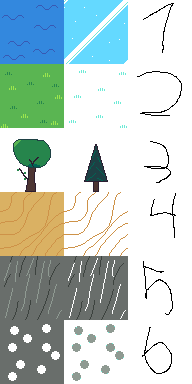
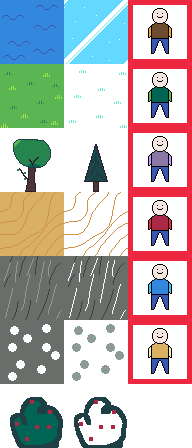
Working on an optimised tile finder

diff --git a/src/levelGeneration.cpp b/src/levelGeneration.cpp
@@ -44,9 +44,18 @@ void generateLevel(std::unordered_map<int64_t, Chunk>& world,SDL_Renderer* rende
 	terNoise.SetFractalLacunarity(2.0f);
 	terNoise.SetFractalGain(0.5f);
 
+	static FastNoiseLite vegNoiseClumps;
+	vegNoiseClumps.SetNoiseType(FastNoiseLite::NoiseType_OpenSimplex2);
+	vegNoiseClumps.SetFrequency(0.008f);
+	vegNoiseClumps.SetFractalType(FastNoiseLite::FractalType_FBm);
+	vegNoiseClumps.SetFractalOctaves(3);
+	float vegVarClumpsX = dist(rng);
+	float vegVarClumpsY = dist(rng);
+
+
 	static FastNoiseLite vegNoise;
 	vegNoise.SetNoiseType(FastNoiseLite::NoiseType_OpenSimplex2);
-	vegNoise.SetFrequency(0.008f);
+	vegNoise.SetFrequency(0.5f);
 	vegNoise.SetFractalType(FastNoiseLite::FractalType_FBm);
 	vegNoise.SetFractalOctaves(3);
 	float vegVarX = dist(rng);
@@ -98,21 +107,36 @@ void generateLevel(std::unordered_map<int64_t, Chunk>& world,SDL_Renderer* rende
 			else                     {type.bg.column= Water;}
 			type.bg.state=true;
 
+			//Apply the base
+			Chunk& chunk = world[key];
+			chunk.ogC[coords.idx] = type;
+
 
 			// Vegitation generation
+			float vegValueLowFreq = vegNoiseClumps.GetNoise((float)(tx+vegVarClumpsX),
+					(float)(ty+vegVarClumpsY));
+			vegValueLowFreq = (vegValueLowFreq + 1.0f) / 2.0f;
+
 			float vegValue = vegNoise.GetNoise((float)(tx+vegVarX), (float)(ty+vegVarY));
 			vegValue = (vegValue + 1.0f) / 2.0f;
-			if (vegValue >= 0.70f && type.bg.column== Grass && terValue<=0.5){
-				type.fg.column= Tree;
-				type.fg.row= type.bg.row;
+
+			//Bushes
+			if (vegValue <= 0.15f && type.bg.column== Grass && terValue<=0.5){
+				type.fg.column = bush;
+				type.fg.row = type.bg.row;
+				type.fg.state = true;
+			}
+
+			//Trees
+			if (vegValueLowFreq >= 0.70f && type.bg.column== Grass && terValue<=0.5){
+				type.fg.column = Tree;
+				type.fg.row = type.bg.row;
 				type.fg.state=true;
 			}
 
-
-			// Actually applying the change
-			Chunk& chunk  = world[key];
+			//Apply the rest
 			chunk.c[coords.idx] = type;
-			chunk.ogC[coords.idx] = type;
+			chunk.cellCount[type]++;
 			dirtyKeys.insert(key);
 
 			heightmap[ty * levelSizeX + tx] = terValue; // world position
@@ -227,10 +251,20 @@ void generateLevel(std::unordered_map<int64_t, Chunk>& world,SDL_Renderer* rende
 							int64_t key = getKey(cCoords.cx, cCoords.cy);
 							if (world.find(key) == world.end()) continue;
 							Chunk& chunk = world[key];
-							dirtyKeys.insert(key);
+
+							// decrement old
+							Cell old = chunk.c[cCoords.idx];
+							if (--chunk.cellCount[old] == 0) chunk.cellCount.erase(old);
+
 							chunk.c[cCoords.idx].bg.column = Water;
 							chunk.c[cCoords.idx].fg.state = false;
+							chunk.ogC[cCoords.idx].bg.column = Water;
+							chunk.ogC[cCoords.idx].fg.state = false;
 
+							// increment new
+							chunk.cellCount[chunk.c[cCoords.idx]]++;
+
+							dirtyKeys.insert(key);
 							carvedAdditions.push_back(wp);
 						}
 					}
@@ -260,8 +294,13 @@ void generateLevel(std::unordered_map<int64_t, Chunk>& world,SDL_Renderer* rende
 
 						int value = chunk.c[c.idx].bg.column;
 						if (value != Water && value != Mountain && value != MountainTop){
+							Cell old = chunk.c[c.idx];
+							if (--chunk.cellCount[old] == 0) chunk.cellCount.erase(old);
+
 							chunk.c[c.idx].bg.column = Sand;
 							chunk.c[c.idx].fg.state = false;
+
+							chunk.cellCount[chunk.c[c.idx]]++;
 						}
 					}
 				}

diff --git a/src/creature.cpp b/src/creature.cpp
@@ -3,37 +3,33 @@
 #include <unordered_map>
 #include <iostream>
 
-
-void Creature::update(std::unordered_map<int64_t, Chunk>& world,
-		std::vector<Creature*> creatures){
+void Creature::update(std::unordered_map<int64_t, Chunk>& world,std::vector<Creature*> creatures){
 	if (!alive){changeCell(world, pos, {-1, -1}, true); return;} //restore
 	if (path.size()>0){
 		Pos nextPos = path.front();
-		Cell p = checkCell(world, nextPos);
-		changeCell(world, pos, {-1, -1}, true);  // restore
-		pos = nextPos;
-		changeCell(world, pos, cell, false); // place
+		updatePosition(world, nextPos);
 		path.erase(path.begin());
-	}else{
-		return;
 	}
-
-	for (auto crt : creatures){
-		if (crt->id != id && id == 0){ //REMOVE id == 0, this is for testing
-			int dis = pos.distance(crt->pos);
-			if (dis < dna.find("sight")->value){
-			}
-		}
-	}
-
 	updateMood();
 }
 
+void Creature::updatePosition(std::unordered_map<int64_t, Chunk>& world,Pos newPos){
+	Cell p = checkCell(world, newPos);
+	cell.bg = p.bg;
+	changeCell(world, pos, {-1, -1}, true);  // restore
+	pos = newPos;
+	changeCell(world, pos, cell, false); // place
+}
+
 void Creature::updateMood(){
+	meal.food-=0.01;
+
 	mood.happiness += meal.evaluate()*dna.find("foodLove")->value;
 
 	mood.clamp();
 	meal.clamp();
+
+	std::cout << id << ":  " << meal.food << std::endl;
 
 	if (meal.food<=-meal.val){
 		alive=false;
@@ -56,5 +52,28 @@ void Creature::pathFind(std::unordered_map<int64_t, Chunk>& world,Pos targetPos)
 		goal=targetPos;
 	}
 	path = astar(this->pos, goal, world);
+}
 
+Pos Creature::lookFor(std::unordered_map<int64_t, Chunk>& world,Cell target){
+	Pos closest = {-1, -1};
+
+	std::unordered_set<int64_t> visibleChunks;
+	int sight = dna.find("sight")->value;
+
+	for(int y=this->pos.y-sight; y <= this->pos.y+sight; y+=chunkH/2){
+		for(int x=this->pos.x-sight; x <= this->pos.x+sight; x+=chunkW/2){
+			if (x<0 || y<0) continue;
+
+			ChunkCoord coords = toChunk(x, y);
+			int64_t key = getKey(coords.cx, coords.cy);
+			if (world.find(key) == world.end()) return closest;
+
+			visibleChunks.insert(key);
+		}
+	}
+
+
+	//Chunk& chunk = world[key];
+
+	return closest;
 }

diff --git a/src/types.hpp b/src/types.hpp
@@ -4,6 +4,7 @@
 #include <SDL3_image/SDL_image.h>
 #include <vector>
 #include <unordered_map>
+#include <unordered_set>
 #include <string>
 #include <algorithm>
 #include <random>
@@ -32,27 +33,15 @@ namespace TextColor {
 }
 
 
-typedef struct {
-	int name;
-	SDL_FRect uv;
-} NamedEntry;
-
-static constexpr NamedEntry tiles[] = {
-	{0, {0, 0, 64, 64}},
-	{1, {64, 0, 64, 64}},
-	{2, {128, 0, 64, 64}},
-	{3, {64*3, 0, 64, 64}},
-	{4, {64*4, 0, 64, 64}},
-	{5, {64*5, 0, 64, 64}},
-};
-
-enum Terrain{
+enum Tiles{
 	Water = 0,
 	Grass = 1,
 	Tree = 2,
 	Sand = 3,
 	Mountain = 4,
 	MountainTop = 5,
+
+	bush = 6,
 
 	FIELDS=0,
 	SNOWY=1,
@@ -69,12 +58,22 @@ struct Cell {
 	AtlasPos bg;
 };
 
-struct GameFont {
-	TTF_Font* ttf = nullptr;
-	int baseSize = 64;
-	std::unordered_map<int, SDL_Texture*> glyphCache;
-	SDL_Texture* fpsTex = nullptr;
-	std::string lastFpsText;
+struct CellHash {
+    size_t operator()(const Cell& c) const {
+        size_t h = 0;
+        h ^= std::hash<short>()(c.fg.row) + 0x9e3779b9 + (h<<6) + (h>>2);
+        h ^= std::hash<short>()(c.fg.column) + 0x9e3779b9 + (h<<6) + (h>>2);
+        h ^= std::hash<short>()(c.bg.row) + 0x9e3779b9 + (h<<6) + (h>>2);
+        h ^= std::hash<short>()(c.bg.column) + 0x9e3779b9 + (h<<6) + (h>>2);
+        return h;
+    }
+};
+
+struct CellEqual {
+    bool operator()(const Cell& a, const Cell& b) const {
+        return a.fg.row == b.fg.row && a.fg.column == b.fg.column &&
+               a.bg.row == b.bg.row && a.bg.column == b.bg.column;
+    }
 };
 
 struct EditCell {
@@ -83,9 +82,19 @@ struct EditCell {
 	Cell c;
 };
 
+struct GameFont {
+	TTF_Font* ttf = nullptr;
+	int baseSize = 64;
+	std::unordered_map<int, SDL_Texture*> glyphCache;
+	SDL_Texture* fpsTex = nullptr;
+	std::string lastFpsText;
+};
+
 struct Chunk {
 	Cell c [chunkW*chunkH];
 	Cell ogC [chunkW*chunkH];
+
+	std::unordered_map<Cell, int, CellHash, CellEqual> cellCount;
 
 	SDL_Texture* tex = nullptr;
 	std::vector<EditCell> cells;

diff --git a/src/creature.hpp b/src/creature.hpp
@@ -157,7 +157,11 @@ class Creature {
 
 		void updateMood();
 
+		void updatePosition(std::unordered_map<int64_t, Chunk>& world,Pos newPos);
+
 		void pathFind(std::unordered_map<int64_t, Chunk>& world,Pos targetPos={-1, -1});
+
+		Pos lookFor(std::unordered_map<int64_t, Chunk>& world,Cell target);
 
 		void debug(){
 			std::cout << cyan << "--- ID: " << id << " ---" << reset << std::endl;
@@ -196,8 +200,14 @@ class Human : public CreatureBase<Human>{
 				dna.add({"iq", std::uniform_real_distribution<float>(30.0f, 50.0f)(rng), 100.0f});
 			}
 		void init(std::unordered_map<int64_t, Chunk>& world) override {
-			cell.fg.row=2; cell.fg.column=id; cell.fg.state=true;
-			cell.bg.row=0; cell.bg.column=0; cell.bg.state=true;
+			cell.fg.row=2;
+			cell.fg.column=std::uniform_int_distribution<int>(0, 5)(rng);
+			cell.fg.state=true;
+
+			cell.bg.row=0;
+			cell.bg.column=0;
+			cell.bg.state=true;
+
 			changeCell(world, pos, cell, false);
 
 			pathFind(world);

diff --git a/src/helper.cpp b/src/helper.cpp
@@ -172,6 +172,12 @@ void changeCell(std::unordered_map<int64_t, Chunk>& world, Pos p, Cell c, bool r
     cell.y = coords.ly;
     cell.c = restore ? chunk.ogC[coords.ly * chunkW + coords.lx] : c;
     chunk.cells.push_back(cell);
+
+	Cell oldCell = chunk.c[coords.ly * chunkW + coords.lx];
+	if (--chunk.cellCount[oldCell] == 0){
+		chunk.cellCount.erase(oldCell);
+	}
+	chunk.cellCount[cell.c]++;
 }
 
 Cell checkCell(std::unordered_map<int64_t, Chunk>& world, Pos p){

diff --git a/src/main.cpp b/src/main.cpp
@@ -121,12 +121,7 @@ int main() {
 			if (event.type == SDL_EVENT_KEY_DOWN) {
 				if (event.key.key == SDLK_ESCAPE) running = false;
 				if (event.key.key == SDLK_T){
-					tee.setMode(LogMode::ConsoleOnly);
-					for (auto creature : testCiv.creatures){
-						creature->debug();
-					}
 					testCiv.evolve(world);
-					tee.setMode(LogMode::Both);
 				}
 			}
 		}

diff --git a/src/civ.cpp b/src/civ.cpp
@@ -44,8 +44,6 @@ void Civ::evolve(std::unordered_map<int64_t, Chunk>& world){
 
 	this->pending.push_back(c);
 	this->id++;
-
-	c->debug();
 }
 
 void Civ::printStats(){

diff --git a/src/pathFinding.cpp b/src/pathFinding.cpp
@@ -47,7 +47,7 @@ std::vector<Pos> astar(Pos start, Pos goal, std::unordered_map<int64_t, Chunk>& 
         for (int i = 0; i < 8; i++) {
             Pos nb{cur.pos.x + dx[i], cur.pos.y + dy[i]};
             Cell c = checkCell(world, nb);
-            if (skipChecks == 0.0f && (c.bg.column == Terrain::Water || c.fg.state)) continue;
+            if (skipChecks == 0.0f && (c.bg.column == Tiles::Water || c.fg.state)) continue;
 
             float tentG = gScore[key(cur.pos)] + cost[i];
             if (!gScore.count(key(nb)) || tentG < gScore[key(nb)]) {